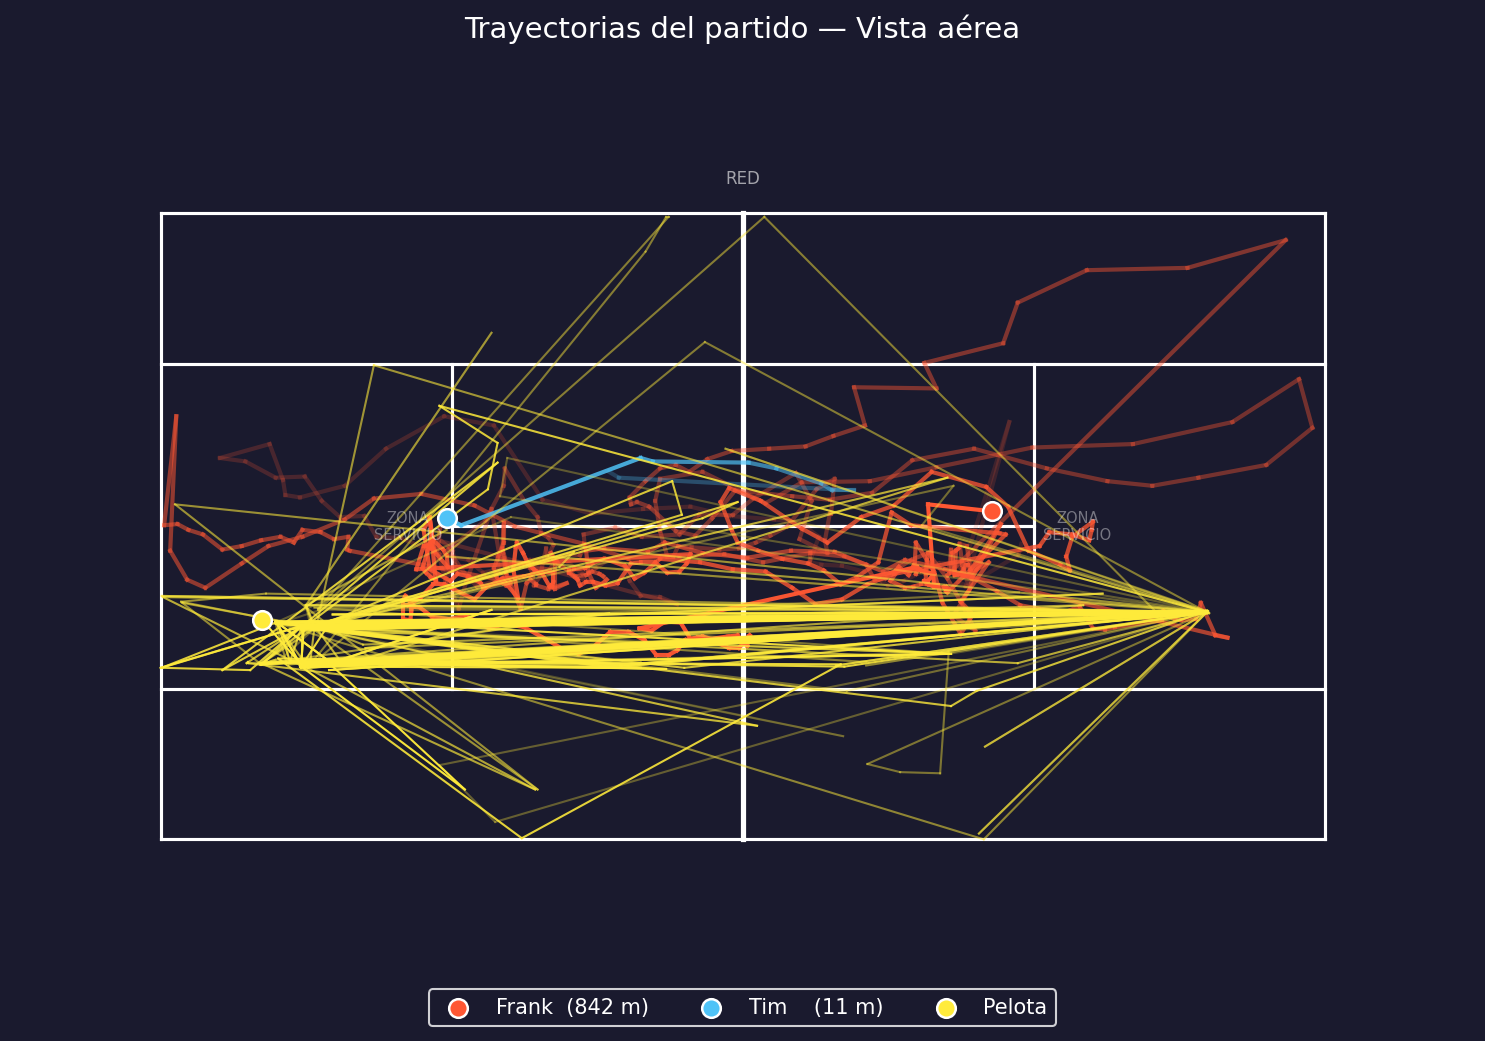
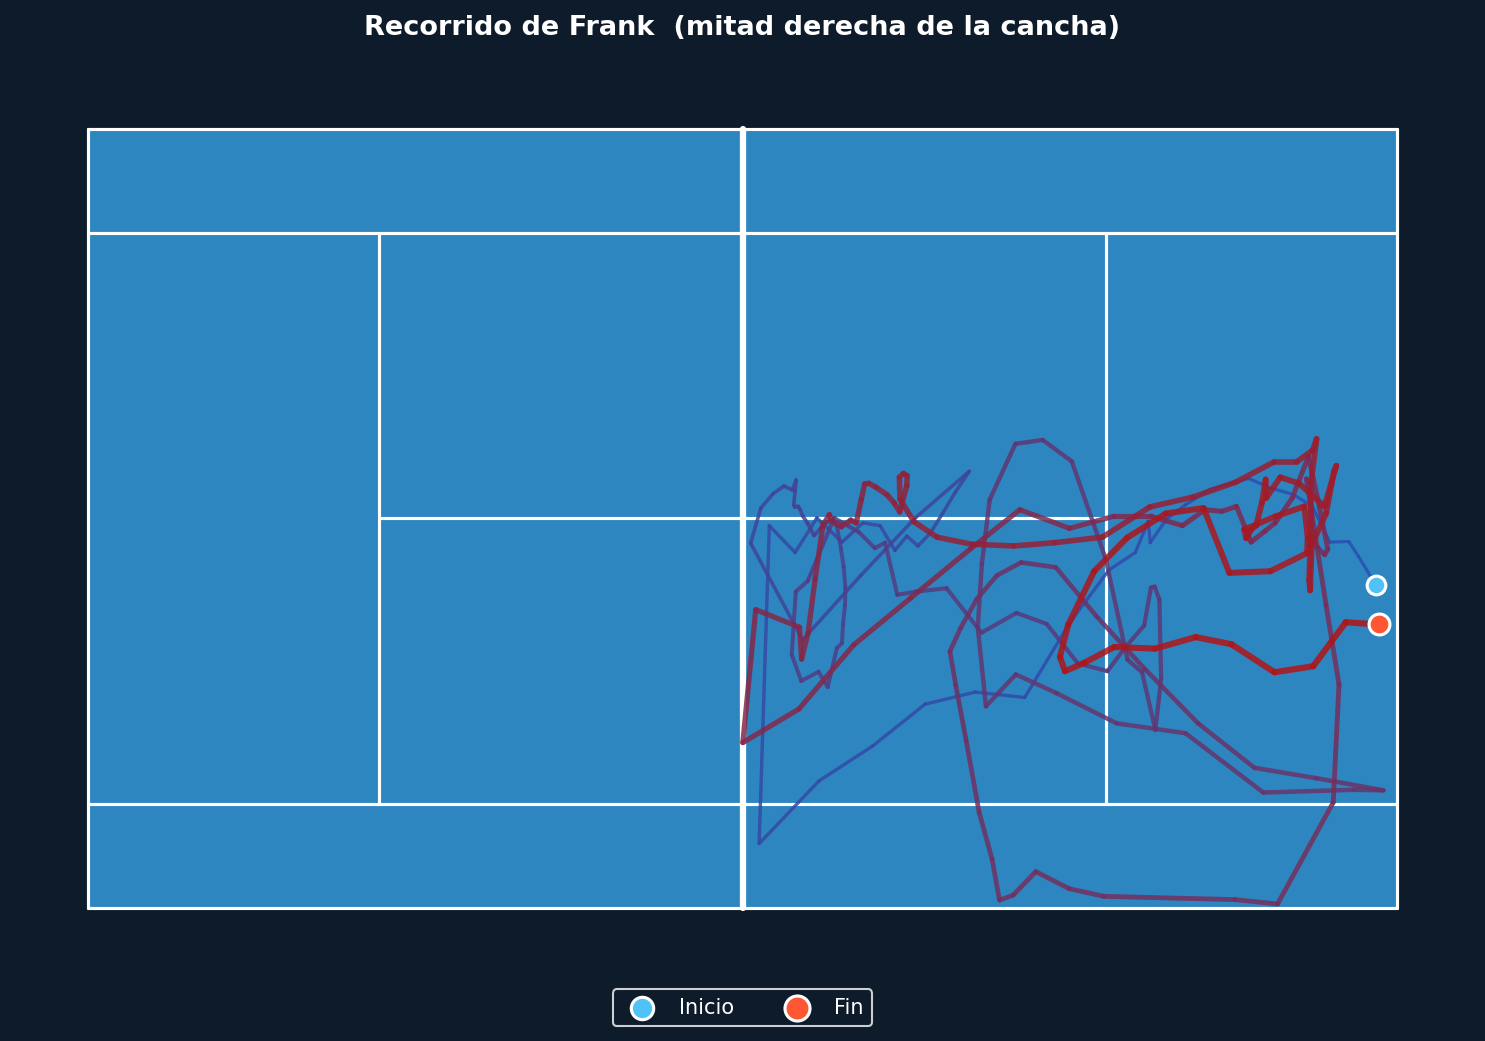
corrección de errores

diff --git a/proyecto_opencv/analisis_tenis.py b/proyecto_opencv/analisis_tenis.py
@@ -70,7 +70,7 @@ PELOTA_HSV_ALTO = np.array([45, 255, 255])
 # =============================================================================
 
 def detectar_jugador(frame_hsv, mascara_mov, hsv_bajo, hsv_alto,
-                     hsv_bajo2=None, hsv_alto2=None, area_min=300):
+                     hsv_bajo2=None, hsv_alto2=None, area_min=300, area_max=8000):
     mascara_color = cv2.inRange(frame_hsv, hsv_bajo, hsv_alto)
     if hsv_bajo2 is not None:
         mascara_color = cv2.bitwise_or(
@@ -86,14 +86,77 @@ def detectar_jugador(frame_hsv, mascara_mov, hsv_bajo, hsv_alto,
     if not contornos:
         return None
 
-    c = max(contornos, key=cv2.contourArea)
-    if cv2.contourArea(c) < area_min:
+    # Filtrar por rango de área válido antes de elegir el contorno mayor.
+    # Contornos demasiado grandes son ruido o partes fuera del frame, no el jugador.
+    contornos = [c for c in contornos if area_min <= cv2.contourArea(c) <= area_max]
+    if not contornos:
         return None
 
-    M = cv2.moments(c)
-    if M["m00"] == 0:
+    c = max(contornos, key=cv2.contourArea)
+
+    # Bounding box del contorno
+    x, y, w, h = cv2.boundingRect(c)
+
+    # Usamos el centro horizontal + la parte BAJA del box (los pies)
+    # Esto evita que el swing de la raqueta desplace el punto hacia arriba
+    cx = x + w // 2
+    cy = y + h          # <-- punto más bajo = pies
+    return (cx, cy)
+
+# =============================================================================
+# MÓDULO 1b — DETECCIÓN DE FRANK POR COLOR HSV + EXTRAPOLACIÓN DE PIES
+# =============================================================================
+
+def detectar_frank_hsv(frame_hsv, mascara_mov, hsv_bajo, hsv_alto,
+                       hsv_bajo2=None, hsv_alto2=None, area_min=300, area_max=8000,
+                       y_min_pies=300, y_max_pies=540):
+    """
+    Detecta a Frank por el color de su remera roja y localiza los pies buscando
+    el píxel más bajo con movimiento en la franja debajo del bounding box de la remera.
+    Zona válida de pies: y_min_pies..y_max_pies en coordenadas del frame escalado.
+    """
+    mascara_color = cv2.inRange(frame_hsv, hsv_bajo, hsv_alto)
+    if hsv_bajo2 is not None:
+        mascara_color = cv2.bitwise_or(
+            mascara_color, cv2.inRange(frame_hsv, hsv_bajo2, hsv_alto2))
+
+    mascara = cv2.bitwise_and(mascara_mov, mascara_color)
+
+    kernel = cv2.getStructuringElement(cv2.MORPH_ELLIPSE, (5, 5))
+    mascara = cv2.morphologyEx(mascara, cv2.MORPH_OPEN,  kernel)
+    mascara = cv2.morphologyEx(mascara, cv2.MORPH_CLOSE, kernel, iterations=2)
+
+    contornos, _ = cv2.findContours(mascara, cv2.RETR_EXTERNAL, cv2.CHAIN_APPROX_SIMPLE)
+    if not contornos:
         return None
-    return (int(M["m10"] / M["m00"]), int(M["m01"] / M["m00"]))
+
+    contornos = [c for c in contornos if area_min <= cv2.contourArea(c) <= area_max]
+    if not contornos:
+        return None
+
+    c = max(contornos, key=cv2.contourArea)
+    x, y, w, h = cv2.boundingRect(c)
+    cx = x + w // 2
+
+    # Buscar el píxel más bajo con movimiento en la franja debajo de la remera
+    # (zona x_center±30, desde el borde inferior de la remera hasta ~2x su altura)
+    h_frame = mascara_mov.shape[0]
+    x_izq  = max(0, cx - 30)
+    x_der  = min(mascara_mov.shape[1], cx + 30)
+    y_top  = y + h
+    y_bot  = min(h_frame, y + h * 2)
+
+    filas_con_mov = np.where(mascara_mov[y_top:y_bot, x_izq:x_der].any(axis=1))[0]
+    if len(filas_con_mov) > 0:
+        cy = y_top + int(filas_con_mov[-1])
+    else:
+        cy = int(y + h + h * 0.8)  # fallback: 80% de la altura por debajo de la remera
+
+    # Descartar si los pies caen fuera de la zona válida de Frank
+    if not (y_min_pies <= cy <= y_max_pies):
+        return None
+
+    return (cx, cy)
 
 # =============================================================================
 # MÓDULO 2 — DETECCIÓN DE LA PELOTA (contorno, sin HoughCircles)
@@ -200,100 +263,141 @@ def dibujar_overlay(frame, frame_num, fps, pos_frank, pos_tim, pos_pelota,
 # MÓDULO 5 — IMAGEN FINAL: VISTA AÉREA DE LA CANCHA CON TRAYECTORIAS
 # =============================================================================
 
-def guardar_resumen_cancha(todos_frank, todos_tim, todos_pelota,
-                           ancho_video, alto_video,
-                           dist_frank_m, dist_tim_m,
-                           ruta="resumen_cancha.png"):
+def guardar_resumen_cancha(todos_frank, ruta="resumen_cancha.png"):
     """
-    Genera una imagen estilo 'vista aérea' con la cancha de tenis dibujada
-    y las trayectorias completas de ambos jugadores y la pelota.
-    Las coordenadas del video se mapean a la cancha esquemática.
+    Genera imagen con la cancha de tenis vista de frente (orientación portrait)
+    y el recorrido completo de Frank (jugador más cercano a la cámara).
     """
+    # Filtrar solo puntos válidos
+    puntos = [p for p in todos_frank if p is not None]
+    print(f"Puntos válidos de Frank: {len(puntos)}")
+    if len(puntos) < 10:
+        print(f"  Primeros valores de todos_frank: {todos_frank[:5]}")
+    if len(puntos) < 2:
+        print("  No hay suficientes puntos para graficar.")
+        return
+
+    # Suavizar la trayectoria para eliminar saltos de detección
+    # Usamos una media móvil simple sobre x e y por separado
+    ventana = 5
+    xs_raw = [p[0] for p in puntos]
+    ys_raw = [p[1] for p in puntos]
+
+    def suavizar(vals, v):
+        resultado = []
+        for i in range(len(vals)):
+            inicio = max(0, i - v // 2)
+            fin    = min(len(vals), i + v // 2)
+            resultado.append(sum(vals[inicio:fin]) / (fin - inicio))
+        return resultado
+
+    xs = suavizar(xs_raw, ventana)
+    ys = suavizar(ys_raw, ventana)
+
+    # Eliminar saltos bruscos (teleportaciones por falsa detección)
+    # Si entre dos frames consecutivos el jugador "salta" más de MAX_SALTO píxeles, lo descartamos
+    MAX_SALTO = 200
+    xs_limpios, ys_limpios = [xs[0]], [ys[0]]
+    for i in range(1, len(xs)):
+        dx = xs[i] - xs_limpios[-1]
+        dy = ys[i] - ys_limpios[-1]
+        if (dx**2 + dy**2) ** 0.5 < MAX_SALTO:
+            xs_limpios.append(xs[i])
+            ys_limpios.append(ys[i])
+
+    # --- Figura con cancha dibujada en matplotlib ---
     fig, ax = plt.subplots(figsize=(10, 7))
-    fig.patch.set_facecolor("#1a1a2e")
-    ax.set_facecolor("#1565C0")   # azul cancha
+    fig.patch.set_facecolor("#0d1b2a")
+    ax.set_facecolor("#0d1b2a")
 
-    # --- Dibujar cancha ---
-    # Dimensiones normalizadas: cancha ocupa el 80% del área del plot
-    W, H = 10, 7   # unidades del plot
+    # Área de la cancha (fondo azul claro)
+    ax.add_patch(plt.Rectangle((0.5, 0.5), 9.0, 6.0,
+                                color="#2E86C1", zorder=1))
 
-    def linea(x1, y1, x2, y2, lw=1.5):
-        ax.plot([x1, x2], [y1, y2], color="white", linewidth=lw, zorder=2)
+    def L(x1, y1, x2, y2, lw=1.5):
+        ax.plot([x1, x2], [y1, y2], color="white", linewidth=lw,
+                solid_capstyle="round", zorder=2)
 
-    # Borde exterior
-    linea(1, 0.8, 9, 0.8)
-    linea(1, 6.2, 9, 6.2)
-    linea(1, 0.8, 1, 6.2)
-    linea(9, 0.8, 9, 6.2)
+    # Rectángulo exterior
+    L(0.5, 0.5, 9.5, 0.5)   # fondo inferior
+    L(0.5, 6.5, 9.5, 6.5)   # fondo superior
+    L(0.5, 0.5, 0.5, 6.5)   # lateral izquierdo
+    L(9.5, 0.5, 9.5, 6.5)   # lateral derecho
 
-    # Red (centro)
-    linea(5, 0.8, 5, 6.2, lw=2.5)
+    # Red (centro, vertical)
+    ax.plot([5, 5], [0.5, 6.5], color="white", linewidth=3,
+            solid_capstyle="round", zorder=2)
 
-    # Línea de servicio izquierda
-    linea(3, 2.1, 3, 4.9)
-    # Línea de servicio derecha
-    linea(7, 2.1, 7, 4.9)
-    # Centro de servicio
-    linea(3, 3.5, 7, 3.5)
+    # Líneas de singles
+    L(0.5, 1.3, 9.5, 1.3)
+    L(0.5, 5.7, 9.5, 5.7)
 
-    # Líneas laterales de dobles
-    linea(1, 2.1, 9, 2.1)
-    linea(1, 4.9, 9, 4.9)
+    # Líneas de servicio
+    L(2.5, 1.3, 2.5, 5.7)
+    L(7.5, 1.3, 7.5, 5.7)
 
-    # --- Mapear coordenadas video → cancha ---
-    def mapear(puntos_video):
-        coords = []
-        for p in puntos_video:
-            if p is None:
-                coords.append(None)
-            else:
-                # Normalizar coordenadas del video al espacio de la cancha
-                px = 1 + (p[0] / ancho_video) * 8
-                py = 0.8 + (p[1] / alto_video) * 5.4
-                coords.append((px, py))
-        return coords
+    # Línea central de servicio
+    L(2.5, 3.5, 7.5, 3.5)
 
-    frank_mapped  = mapear([p for p in todos_frank  if p is not None])
-    tim_mapped    = mapear([p for p in todos_tim    if p is not None])
-    pelota_mapped = mapear([p for p in todos_pelota if p is not None])
+    # --- Mapear coordenadas del video a la cancha landscape ---
+    # Calibración con referencias reales del video en coords ORIGINALES (1920x1080).
+    # Los valores escalados del enunciado se multiplican x2 porque todos_frank
+    # almacena posiciones en coords originales (tras escalar() con ESCALA=0.5).
+    #
+    # mapear_x: video x (ancho de cancha visto desde cámara) → plot x (profundidad)
+    #   x=480 orig (lateral izq singles, x=240 esc) → plot x=5  (red)
+    #   x=1380 orig (lateral der singles, x=690 esc) → plot x=9.2 (fondo Frank)
+    #
+    # mapear_y: video y (profundidad en frame) → plot y (ancho de cancha), invertido
+    #   y=430 orig (red, y=215 esc) → plot y=5.7 (lateral superior)
+    #   y=950 orig (fondo, y=475 esc) → plot y=1.3 (lateral inferior)
 
-    def dibujar_tray_plot(coords, color, label, alpha_line=0.6, lw=2):
-        xs = [c[0] for c in coords if c]
-        ys = [c[1] for c in coords if c]
-        if len(xs) < 2:
-            return
-        # Dibujar segmentos con degradado de opacidad
-        n = len(xs)
-        for i in range(1, n):
-            a = 0.15 + 0.85 * (i / n)
-            ax.plot([xs[i-1], xs[i]], [ys[i-1], ys[i]],
-                    color=color, alpha=a, linewidth=lw, zorder=3)
-        # Punto final (posición actual)
-        ax.scatter(xs[-1], ys[-1], color=color, s=80, zorder=5,
-                   edgecolors="white", linewidths=1.2, label=label)
+    def mapear_x(px):
+        return 5 + ((px - 480) / (1380 - 480)) * 4.2
 
-    # Colores matplotlib (RGB 0-1)
-    dibujar_tray_plot(frank_mapped,  "#FF5733", f"Frank  ({dist_frank_m:.0f} m)")
-    dibujar_tray_plot(tim_mapped,    "#4FC3F7", f"Tim    ({dist_tim_m:.0f} m)")
-    dibujar_tray_plot(pelota_mapped, "#FFEB3B", "Pelota", alpha_line=0.8, lw=1)
+    def mapear_y(py):
+        return 5.7 - ((py - 430) / (950 - 430)) * 4.4
 
-    # --- Etiquetas de zonas ---
-    ax.text(2.7, 3.5, "ZONA\nSERVICIO", color="white", fontsize=7,
-            ha="center", va="center", alpha=0.4)
-    ax.text(7.3, 3.5, "ZONA\nSERVICIO", color="white", fontsize=7,
-            ha="center", va="center", alpha=0.4)
-    ax.text(5.0, 6.5, "RED", color="white", fontsize=8,
-            ha="center", va="center", alpha=0.6)
+    xm = [mapear_x(x) for x in xs_limpios]
+    ym = [mapear_y(y) for y in ys_limpios]
+
+    # Descartar puntos fuera del lado de Frank o fuera del área visible de la cancha
+    pares_validos = [(xi, yi) for xi, yi in zip(xm, ym)
+                     if 5 <= xi <= 9.5 and 0.5 <= yi <= 6.5]
+    if len(pares_validos) < 2:
+        print("  No hay suficientes puntos en la mitad de cancha de Frank tras filtrar.")
+        return
+    xm, ym = zip(*pares_validos)
+    xm, ym = list(xm), list(ym)
+
+    # --- Dibujar trayectoria con degradado de color (inicio=azul oscuro → fin=rojo) ---
+    n = len(xm)
+    for i in range(1, n):
+        t = i / n
+        r = int(180 * t + 40 * (1 - t))
+        g = int(20  * t + 80 * (1 - t))
+        b = int(20  * t + 180 * (1 - t))
+        color_hex = f"#{r:02x}{g:02x}{b:02x}"
+        lw = 1.5 + t * 1.5
+        ax.plot([xm[i-1], xm[i]], [ym[i-1], ym[i]],
+                color=color_hex, linewidth=lw, alpha=0.85,
+                solid_capstyle="round", zorder=3)
+
+    # Punto de inicio (círculo hueco) y punto final (círculo sólido)
+    ax.scatter(xm[0],  ym[0],  s=80,  color="#4FC3F7", zorder=6,
+               edgecolors="white", linewidths=1.5, label="Inicio")
+    ax.scatter(xm[-1], ym[-1], s=100, color="#FF5733", zorder=6,
+               edgecolors="white", linewidths=1.5, label="Fin")
 
     # --- Leyenda y títulos ---
-    legend = ax.legend(loc="lower center", bbox_to_anchor=(0.5, -0.12),
-                       ncol=3, frameon=True, facecolor="#1a1a2e",
-                       edgecolor="white", labelcolor="white", fontsize=10)
+    ax.legend(loc="lower center", bbox_to_anchor=(0.5, -0.07), ncol=2,
+              frameon=True, facecolor="#0d1b2a", edgecolor="white",
+              labelcolor="white", fontsize=10, markerscale=1.2)
 
-    ax.set_title("Trayectorias del partido — Vista aérea",
-                 color="white", fontsize=14, pad=12)
-    ax.set_xlim(0, W)
-    ax.set_ylim(0, H + 0.5)
+    ax.set_title("Recorrido de Frank  (mitad derecha de la cancha)",
+                 color="white", fontsize=13, pad=14, fontweight="bold")
+    ax.set_xlim(0, 10)
+    ax.set_ylim(0, 7)
     ax.axis("off")
 
     plt.tight_layout()
@@ -358,9 +462,18 @@ def procesar_video(ruta_entrada, ruta_salida="video_procesado.mp4"):
         sys.exit(1)
 
     fps_orig = cap.get(cv2.CAP_PROP_FPS)
-    ancho    = int(cap.get(cv2.CAP_PROP_FRAME_WIDTH))
-    alto     = int(cap.get(cv2.CAP_PROP_FRAME_HEIGHT))
     total    = int(cap.get(cv2.CAP_PROP_FRAME_COUNT))
+
+    # Leer el primer frame para obtener las dimensiones REALES del frame.
+    # cap.get(CAP_PROP_FRAME_WIDTH/HEIGHT) puede devolver valores distintos
+    # a los del frame real (diferencia entre tamaño de display y tamaño codificado),
+    # lo que hace que el VideoWriter recorte los frames silenciosamente.
+    ret_test, frame_test = cap.read()
+    if not ret_test:
+        print(f"ERROR: No se puede leer el primer frame de '{ruta_entrada}'")
+        sys.exit(1)
+    alto, ancho = frame_test.shape[:2]
+    cap.set(cv2.CAP_PROP_POS_FRAMES, 0)  # volver al inicio
 
     # Dimensiones escaladas para procesamiento interno
     ancho_proc = int(ancho * ESCALA)
@@ -417,9 +530,9 @@ def procesar_video(ruta_entrada, ruta_salida="video_procesado.mp4"):
         frame_hsv = cv2.cvtColor(pequeño, cv2.COLOR_BGR2HSV)
 
         # Detectar en coordenadas pequeñas
-        pos_frank_p  = detectar_jugador(frame_hsv, mascara_mov,
-                                        FRANK_HSV_BAJO, FRANK_HSV_ALTO,
-                                        FRANK_HSV_BAJO2, FRANK_HSV_ALTO2)
+        pos_frank_p  = detectar_frank_hsv(frame_hsv, mascara_mov,
+                                          FRANK_HSV_BAJO, FRANK_HSV_ALTO,
+                                          FRANK_HSV_BAJO2, FRANK_HSV_ALTO2)
         pos_tim_p    = detectar_jugador(frame_hsv, mascara_mov,
                                         TIM_HSV_BAJO, TIM_HSV_ALTO)
         pos_pelota_p = detectar_pelota(frame_hsv, PELOTA_HSV_BAJO, PELOTA_HSV_ALTO)
@@ -460,9 +573,15 @@ def procesar_video(ruta_entrada, ruta_salida="video_procesado.mp4"):
                         pos_frank, pos_tim, pos_pelota,
                         dist_frank_px, dist_tim_px)
 
+        # Garantía explícita: solo se escribe el frame original sin resize.
+        # Si por cualquier razón el shape no coincide, se corrige antes de escribir
+        # para evitar el efecto de zoom/recorte silencioso del VideoWriter.
+        if frame.shape[1] != ancho or frame.shape[0] != alto:
+            frame = cv2.resize(frame, (ancho, alto))
         writer.write(frame)
 
-        cv2.imshow("Analisis Tenis - OpenCV", frame)
+        preview = cv2.resize(frame, (frame.shape[1] // 2, frame.shape[0] // 2))
+        cv2.imshow("Analisis Tenis - OpenCV", preview)
         if cv2.waitKey(1) & 0xFF == ord("q"):
             print("  Cancelado por el usuario.")
             break
@@ -474,13 +593,9 @@ def procesar_video(ruta_entrada, ruta_salida="video_procesado.mp4"):
     print(f"\nVideo guardado en: {ruta_salida}")
 
     fps_ef = fps_orig / FRAME_SKIP
-    dist_f, dist_t = exportar_metricas(todos_frank, todos_tim, fps_ef)
+    # dist_f, dist_t = exportar_metricas(todos_frank, todos_tim, fps_ef)
 
-    guardar_resumen_cancha(
-        todos_frank, todos_tim, todos_pelota,
-        ancho, alto,
-        dist_f, dist_t
-    )
+    guardar_resumen_cancha(todos_frank)
 
 # =============================================================================
 # UTILIDAD: CALIBRADOR HSV
